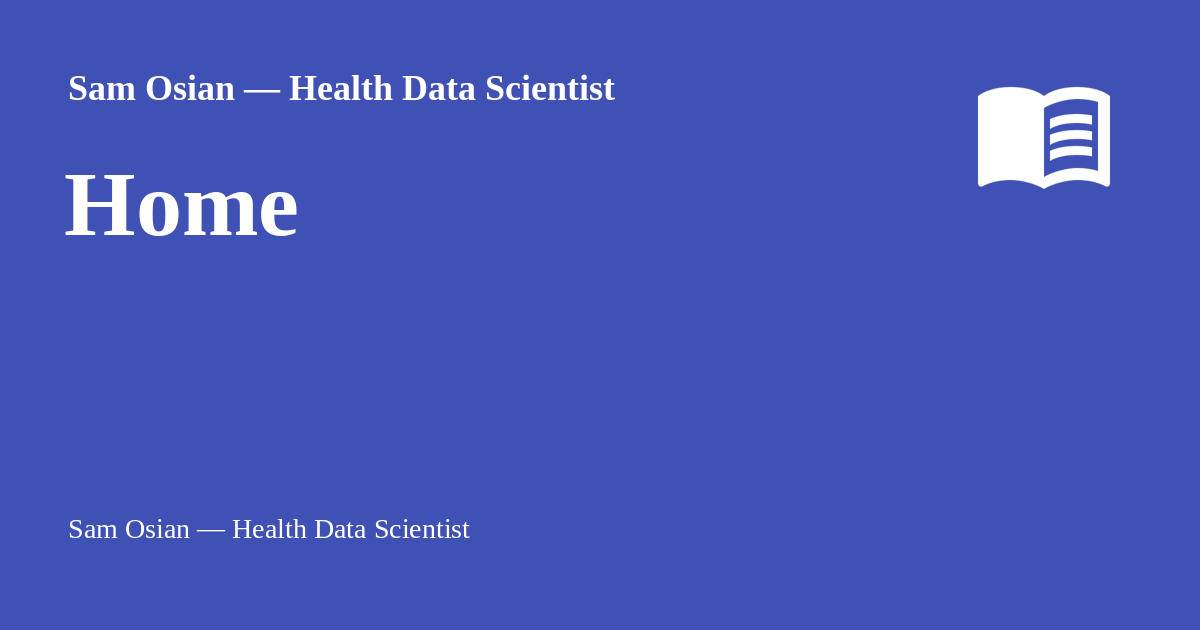
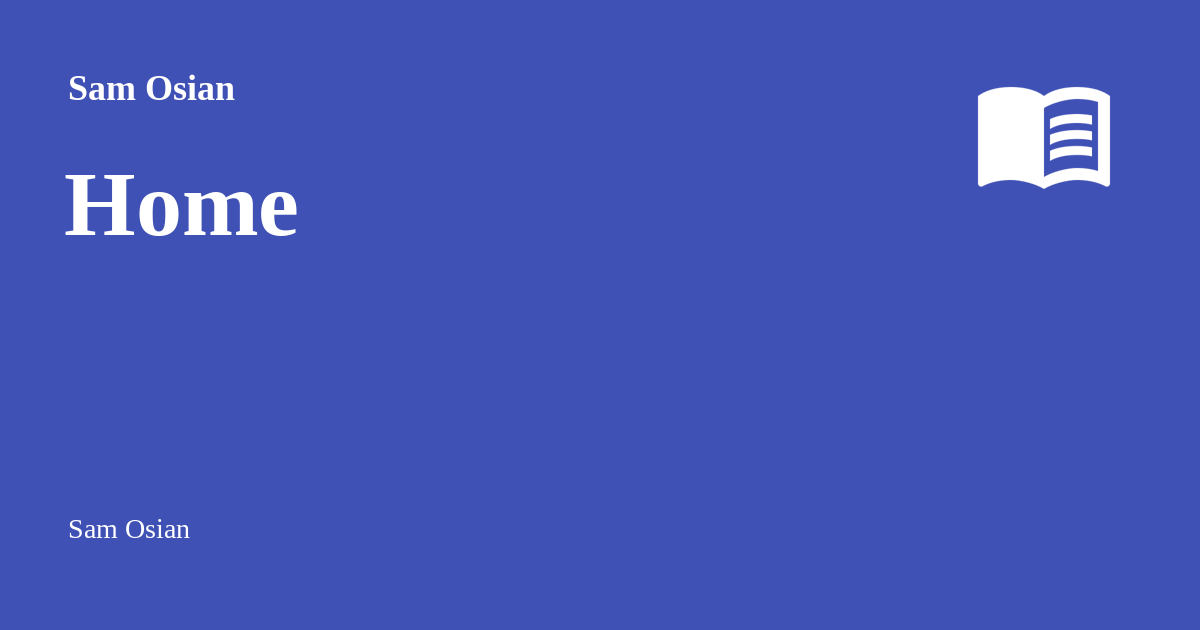
Deployed 6488b32 with MkDocs version: 1.6.1

Changed region(s): [[0.2158, 0.1206, 0.5242, 0.181], [0.185, 0.8143, 0.4008, 0.8746]]

diff --git a/rethinking-significance/index.html b/rethinking-significance/index.html
@@ -6,7 +6,7 @@
       <meta charset="utf-8">
       <meta name="viewport" content="width=device-width,initial-scale=1">
       
-        <meta name="description" content="Sam Osian — Health Data Scientist">
+        <meta name="description" content="Sam Osian">
       
       
         <meta name="author" content="Sam Osian">
@@ -25,7 +25,7 @@
     
     
       
-        <title>Rethinking 'significance' — Has the p-value overstayed its welcome? - Sam Osian — Health Data Scientist</title>
+        <title>Rethinking 'significance' — Has the p-value overstayed its welcome? - Sam Osian</title>
       
     
     
@@ -64,9 +64,9 @@
       
         <meta  property="og:type"  content="website" >
       
-        <meta  property="og:title"  content="Rethinking 'significance' — Has the p-value overstayed its welcome? - Sam Osian — Health Data Scientist" >
+        <meta  property="og:title"  content="Rethinking 'significance' — Has the p-value overstayed its welcome? - Sam Osian" >
       
-        <meta  property="og:description"  content="Sam Osian — Health Data Scientist" >
+        <meta  property="og:description"  content="Sam Osian" >
       
         <meta  property="og:image"  content="https://sam-osian.com/assets/images/social/posts/rethinking-significance.png" >
       
@@ -80,9 +80,9 @@
       
         <meta  name="twitter:card"  content="summary_large_image" >
       
-        <meta  name="twitter:title"  content="Rethinking 'significance' — Has the p-value overstayed its welcome? - Sam Osian — Health Data Scientist" >
+        <meta  name="twitter:title"  content="Rethinking 'significance' — Has the p-value overstayed its welcome? - Sam Osian" >
       
-        <meta  name="twitter:description"  content="Sam Osian — Health Data Scientist" >
+        <meta  name="twitter:description"  content="Sam Osian" >
       
         <meta  name="twitter:image"  content="https://sam-osian.com/assets/images/social/posts/rethinking-significance.png" >
       
@@ -132,7 +132,7 @@
 
 <header class="md-header md-header--shadow" data-md-component="header">
   <nav class="md-header__inner md-grid" aria-label="Header">
-    <a href=".." title="Sam Osian — Health Data Scientist" class="md-header__button md-logo" aria-label="Sam Osian — Health Data Scientist" data-md-component="logo">
+    <a href=".." title="Sam Osian" class="md-header__button md-logo" aria-label="Sam Osian" data-md-component="logo">
       
   
   <svg xmlns="http://www.w3.org/2000/svg" viewBox="0 0 24 24"><path d="M12 21.5c-1.35-.85-3.8-1.5-5.5-1.5-1.65 0-3.35.3-4.75 1.05-.1.05-.15.05-.25.05-.25 0-.5-.25-.5-.5V6c.6-.45 1.25-.75 2-1 1.11-.35 2.33-.5 3.5-.5 1.95 0 4.05.4 5.5 1.5 1.45-1.1 3.55-1.5 5.5-1.5 1.17 0 2.39.15 3.5.5.75.25 1.4.55 2 1v14.6c0 .25-.25.5-.5.5-.1 0-.15 0-.25-.05-1.4-.75-3.1-1.05-4.75-1.05-1.7 0-4.15.65-5.5 1.5M12 8v11.5c1.35-.85 3.8-1.5 5.5-1.5 1.2 0 2.4.15 3.5.5V7c-1.1-.35-2.3-.5-3.5-.5-1.7 0-4.15.65-5.5 1.5m1 3.5c1.11-.68 2.6-1 4.5-1 .91 0 1.76.09 2.5.28V9.23c-.87-.15-1.71-.23-2.5-.23q-2.655 0-4.5.84zm4.5.17c-1.71 0-3.21.26-4.5.79v1.69c1.11-.65 2.6-.99 4.5-.99 1.04 0 1.88.08 2.5.24v-1.5c-.87-.16-1.71-.23-2.5-.23m2.5 2.9c-.87-.16-1.71-.24-2.5-.24-1.83 0-3.33.27-4.5.8v1.69c1.11-.66 2.6-.99 4.5-.99 1.04 0 1.88.08 2.5.24z"/></svg>
@@ -146,7 +146,7 @@
       <div class="md-header__ellipsis">
         <div class="md-header__topic">
           <span class="md-ellipsis">
-            Sam Osian — Health Data Scientist
+            Sam Osian
           </span>
         </div>
         <div class="md-header__topic" data-md-component="header-topic">
@@ -260,13 +260,13 @@
 
 <nav class="md-nav md-nav--primary" aria-label="Navigation" data-md-level="0">
   <label class="md-nav__title" for="__drawer">
-    <a href=".." title="Sam Osian — Health Data Scientist" class="md-nav__button md-logo" aria-label="Sam Osian — Health Data Scientist" data-md-component="logo">
+    <a href=".." title="Sam Osian" class="md-nav__button md-logo" aria-label="Sam Osian" data-md-component="logo">
       
   
   <svg xmlns="http://www.w3.org/2000/svg" viewBox="0 0 24 24"><path d="M12 21.5c-1.35-.85-3.8-1.5-5.5-1.5-1.65 0-3.35.3-4.75 1.05-.1.05-.15.05-.25.05-.25 0-.5-.25-.5-.5V6c.6-.45 1.25-.75 2-1 1.11-.35 2.33-.5 3.5-.5 1.95 0 4.05.4 5.5 1.5 1.45-1.1 3.55-1.5 5.5-1.5 1.17 0 2.39.15 3.5.5.75.25 1.4.55 2 1v14.6c0 .25-.25.5-.5.5-.1 0-.15 0-.25-.05-1.4-.75-3.1-1.05-4.75-1.05-1.7 0-4.15.65-5.5 1.5M12 8v11.5c1.35-.85 3.8-1.5 5.5-1.5 1.2 0 2.4.15 3.5.5V7c-1.1-.35-2.3-.5-3.5-.5-1.7 0-4.15.65-5.5 1.5m1 3.5c1.11-.68 2.6-1 4.5-1 .91 0 1.76.09 2.5.28V9.23c-.87-.15-1.71-.23-2.5-.23q-2.655 0-4.5.84zm4.5.17c-1.71 0-3.21.26-4.5.79v1.69c1.11-.65 2.6-.99 4.5-.99 1.04 0 1.88.08 2.5.24v-1.5c-.87-.16-1.71-.23-2.5-.23m2.5 2.9c-.87-.16-1.71-.24-2.5-.24-1.83 0-3.33.27-4.5.8v1.69c1.11-.66 2.6-.99 4.5-.99 1.04 0 1.88.08 2.5.24z"/></svg>
 
     </a>
-    Sam Osian — Health Data Scientist
+    Sam Osian
   </label>
   
   <ul class="md-nav__list" data-md-scrollfix>

diff --git a/publications/index.html b/publications/index.html
@@ -6,7 +6,7 @@
       <meta charset="utf-8">
       <meta name="viewport" content="width=device-width,initial-scale=1">
       
-        <meta name="description" content="Sam Osian — Health Data Scientist">
+        <meta name="description" content="Sam Osian">
       
       
         <meta name="author" content="Sam Osian">
@@ -27,7 +27,7 @@
     
     
       
-        <title>Publications - Sam Osian — Health Data Scientist</title>
+        <title>Publications - Sam Osian</title>
       
     
     
@@ -64,9 +64,9 @@
       
         <meta  property="og:type"  content="website" >
       
-        <meta  property="og:title"  content="Publications - Sam Osian — Health Data Scientist" >
+        <meta  property="og:title"  content="Publications - Sam Osian" >
       
-        <meta  property="og:description"  content="Sam Osian — Health Data Scientist" >
+        <meta  property="og:description"  content="Sam Osian" >
       
         <meta  property="og:image"  content="https://sam-osian.com/assets/images/social/publications.png" >
       
@@ -80,9 +80,9 @@
       
         <meta  name="twitter:card"  content="summary_large_image" >
       
-        <meta  name="twitter:title"  content="Publications - Sam Osian — Health Data Scientist" >
+        <meta  name="twitter:title"  content="Publications - Sam Osian" >
       
-        <meta  name="twitter:description"  content="Sam Osian — Health Data Scientist" >
+        <meta  name="twitter:description"  content="Sam Osian" >
       
         <meta  name="twitter:image"  content="https://sam-osian.com/assets/images/social/publications.png" >
       
@@ -132,7 +132,7 @@
 
 <header class="md-header md-header--shadow" data-md-component="header">
   <nav class="md-header__inner md-grid" aria-label="Header">
-    <a href=".." title="Sam Osian — Health Data Scientist" class="md-header__button md-logo" aria-label="Sam Osian — Health Data Scientist" data-md-component="logo">
+    <a href=".." title="Sam Osian" class="md-header__button md-logo" aria-label="Sam Osian" data-md-component="logo">
       
   
   <svg xmlns="http://www.w3.org/2000/svg" viewBox="0 0 24 24"><path d="M12 21.5c-1.35-.85-3.8-1.5-5.5-1.5-1.65 0-3.35.3-4.75 1.05-.1.05-.15.05-.25.05-.25 0-.5-.25-.5-.5V6c.6-.45 1.25-.75 2-1 1.11-.35 2.33-.5 3.5-.5 1.95 0 4.05.4 5.5 1.5 1.45-1.1 3.55-1.5 5.5-1.5 1.17 0 2.39.15 3.5.5.75.25 1.4.55 2 1v14.6c0 .25-.25.5-.5.5-.1 0-.15 0-.25-.05-1.4-.75-3.1-1.05-4.75-1.05-1.7 0-4.15.65-5.5 1.5M12 8v11.5c1.35-.85 3.8-1.5 5.5-1.5 1.2 0 2.4.15 3.5.5V7c-1.1-.35-2.3-.5-3.5-.5-1.7 0-4.15.65-5.5 1.5m1 3.5c1.11-.68 2.6-1 4.5-1 .91 0 1.76.09 2.5.28V9.23c-.87-.15-1.71-.23-2.5-.23q-2.655 0-4.5.84zm4.5.17c-1.71 0-3.21.26-4.5.79v1.69c1.11-.65 2.6-.99 4.5-.99 1.04 0 1.88.08 2.5.24v-1.5c-.87-.16-1.71-.23-2.5-.23m2.5 2.9c-.87-.16-1.71-.24-2.5-.24-1.83 0-3.33.27-4.5.8v1.69c1.11-.66 2.6-.99 4.5-.99 1.04 0 1.88.08 2.5.24z"/></svg>
@@ -146,7 +146,7 @@
       <div class="md-header__ellipsis">
         <div class="md-header__topic">
           <span class="md-ellipsis">
-            Sam Osian — Health Data Scientist
+            Sam Osian
           </span>
         </div>
         <div class="md-header__topic" data-md-component="header-topic">
@@ -258,13 +258,13 @@
 
 <nav class="md-nav md-nav--primary" aria-label="Navigation" data-md-level="0">
   <label class="md-nav__title" for="__drawer">
-    <a href=".." title="Sam Osian — Health Data Scientist" class="md-nav__button md-logo" aria-label="Sam Osian — Health Data Scientist" data-md-component="logo">
+    <a href=".." title="Sam Osian" class="md-nav__button md-logo" aria-label="Sam Osian" data-md-component="logo">
       
   
   <svg xmlns="http://www.w3.org/2000/svg" viewBox="0 0 24 24"><path d="M12 21.5c-1.35-.85-3.8-1.5-5.5-1.5-1.65 0-3.35.3-4.75 1.05-.1.05-.15.05-.25.05-.25 0-.5-.25-.5-.5V6c.6-.45 1.25-.75 2-1 1.11-.35 2.33-.5 3.5-.5 1.95 0 4.05.4 5.5 1.5 1.45-1.1 3.55-1.5 5.5-1.5 1.17 0 2.39.15 3.5.5.75.25 1.4.55 2 1v14.6c0 .25-.25.5-.5.5-.1 0-.15 0-.25-.05-1.4-.75-3.1-1.05-4.75-1.05-1.7 0-4.15.65-5.5 1.5M12 8v11.5c1.35-.85 3.8-1.5 5.5-1.5 1.2 0 2.4.15 3.5.5V7c-1.1-.35-2.3-.5-3.5-.5-1.7 0-4.15.65-5.5 1.5m1 3.5c1.11-.68 2.6-1 4.5-1 .91 0 1.76.09 2.5.28V9.23c-.87-.15-1.71-.23-2.5-.23q-2.655 0-4.5.84zm4.5.17c-1.71 0-3.21.26-4.5.79v1.69c1.11-.65 2.6-.99 4.5-.99 1.04 0 1.88.08 2.5.24v-1.5c-.87-.16-1.71-.23-2.5-.23m2.5 2.9c-.87-.16-1.71-.24-2.5-.24-1.83 0-3.33.27-4.5.8v1.69c1.11-.66 2.6-.99 4.5-.99 1.04 0 1.88.08 2.5.24z"/></svg>
 
     </a>
-    Sam Osian — Health Data Scientist
+    Sam Osian
   </label>
   
   <ul class="md-nav__list" data-md-scrollfix>

diff --git a/about/index.html b/about/index.html
@@ -6,7 +6,7 @@
       <meta charset="utf-8">
       <meta name="viewport" content="width=device-width,initial-scale=1">
       
-        <meta name="description" content="Sam Osian — Health Data Scientist">
+        <meta name="description" content="Sam Osian">
       
       
         <meta name="author" content="Sam Osian">
@@ -29,7 +29,7 @@
     
     
       
-        <title>About - Sam Osian — Health Data Scientist</title>
+        <title>About - Sam Osian</title>
       
     
     
@@ -66,9 +66,9 @@
       
         <meta  property="og:type"  content="website" >
       
-        <meta  property="og:title"  content="About - Sam Osian — Health Data Scientist" >
+        <meta  property="og:title"  content="About - Sam Osian" >
       
-        <meta  property="og:description"  content="Sam Osian — Health Data Scientist" >
+        <meta  property="og:description"  content="Sam Osian" >
       
         <meta  property="og:image"  content="https://sam-osian.com/assets/images/social/about.png" >
       
@@ -82,9 +82,9 @@
       
         <meta  name="twitter:card"  content="summary_large_image" >
       
-        <meta  name="twitter:title"  content="About - Sam Osian — Health Data Scientist" >
+        <meta  name="twitter:title"  content="About - Sam Osian" >
       
-        <meta  name="twitter:description"  content="Sam Osian — Health Data Scientist" >
+        <meta  name="twitter:description"  content="Sam Osian" >
       
         <meta  name="twitter:image"  content="https://sam-osian.com/assets/images/social/about.png" >
       
@@ -134,7 +134,7 @@
 
 <header class="md-header md-header--shadow" data-md-component="header">
   <nav class="md-header__inner md-grid" aria-label="Header">
-    <a href=".." title="Sam Osian — Health Data Scientist" class="md-header__button md-logo" aria-label="Sam Osian — Health Data Scientist" data-md-component="logo">
+    <a href=".." title="Sam Osian" class="md-header__button md-logo" aria-label="Sam Osian" data-md-component="logo">
       
   
   <svg xmlns="http://www.w3.org/2000/svg" viewBox="0 0 24 24"><path d="M12 21.5c-1.35-.85-3.8-1.5-5.5-1.5-1.65 0-3.35.3-4.75 1.05-.1.05-.15.05-.25.05-.25 0-.5-.25-.5-.5V6c.6-.45 1.25-.75 2-1 1.11-.35 2.33-.5 3.5-.5 1.95 0 4.05.4 5.5 1.5 1.45-1.1 3.55-1.5 5.5-1.5 1.17 0 2.39.15 3.5.5.75.25 1.4.55 2 1v14.6c0 .25-.25.5-.5.5-.1 0-.15 0-.25-.05-1.4-.75-3.1-1.05-4.75-1.05-1.7 0-4.15.65-5.5 1.5M12 8v11.5c1.35-.85 3.8-1.5 5.5-1.5 1.2 0 2.4.15 3.5.5V7c-1.1-.35-2.3-.5-3.5-.5-1.7 0-4.15.65-5.5 1.5m1 3.5c1.11-.68 2.6-1 4.5-1 .91 0 1.76.09 2.5.28V9.23c-.87-.15-1.71-.23-2.5-.23q-2.655 0-4.5.84zm4.5.17c-1.71 0-3.21.26-4.5.79v1.69c1.11-.65 2.6-.99 4.5-.99 1.04 0 1.88.08 2.5.24v-1.5c-.87-.16-1.71-.23-2.5-.23m2.5 2.9c-.87-.16-1.71-.24-2.5-.24-1.83 0-3.33.27-4.5.8v1.69c1.11-.66 2.6-.99 4.5-.99 1.04 0 1.88.08 2.5.24z"/></svg>
@@ -148,7 +148,7 @@
       <div class="md-header__ellipsis">
         <div class="md-header__topic">
           <span class="md-ellipsis">
-            Sam Osian — Health Data Scientist
+            Sam Osian
           </span>
         </div>
         <div class="md-header__topic" data-md-component="header-topic">
@@ -260,13 +260,13 @@
 
 <nav class="md-nav md-nav--primary" aria-label="Navigation" data-md-level="0">
   <label class="md-nav__title" for="__drawer">
-    <a href=".." title="Sam Osian — Health Data Scientist" class="md-nav__button md-logo" aria-label="Sam Osian — Health Data Scientist" data-md-component="logo">
+    <a href=".." title="Sam Osian" class="md-nav__button md-logo" aria-label="Sam Osian" data-md-component="logo">
       
   
   <svg xmlns="http://www.w3.org/2000/svg" viewBox="0 0 24 24"><path d="M12 21.5c-1.35-.85-3.8-1.5-5.5-1.5-1.65 0-3.35.3-4.75 1.05-.1.05-.15.05-.25.05-.25 0-.5-.25-.5-.5V6c.6-.45 1.25-.75 2-1 1.11-.35 2.33-.5 3.5-.5 1.95 0 4.05.4 5.5 1.5 1.45-1.1 3.55-1.5 5.5-1.5 1.17 0 2.39.15 3.5.5.75.25 1.4.55 2 1v14.6c0 .25-.25.5-.5.5-.1 0-.15 0-.25-.05-1.4-.75-3.1-1.05-4.75-1.05-1.7 0-4.15.65-5.5 1.5M12 8v11.5c1.35-.85 3.8-1.5 5.5-1.5 1.2 0 2.4.15 3.5.5V7c-1.1-.35-2.3-.5-3.5-.5-1.7 0-4.15.65-5.5 1.5m1 3.5c1.11-.68 2.6-1 4.5-1 .91 0 1.76.09 2.5.28V9.23c-.87-.15-1.71-.23-2.5-.23q-2.655 0-4.5.84zm4.5.17c-1.71 0-3.21.26-4.5.79v1.69c1.11-.65 2.6-.99 4.5-.99 1.04 0 1.88.08 2.5.24v-1.5c-.87-.16-1.71-.23-2.5-.23m2.5 2.9c-.87-.16-1.71-.24-2.5-.24-1.83 0-3.33.27-4.5.8v1.69c1.11-.66 2.6-.99 4.5-.99 1.04 0 1.88.08 2.5.24z"/></svg>
 
     </a>
-    Sam Osian — Health Data Scientist
+    Sam Osian
   </label>
   
   <ul class="md-nav__list" data-md-scrollfix>

diff --git a/index.html b/index.html
@@ -6,7 +6,7 @@
       <meta charset="utf-8">
       <meta name="viewport" content="width=device-width,initial-scale=1">
       
-        <meta name="description" content="Sam Osian — Health Data Scientist">
+        <meta name="description" content="Sam Osian">
       
       
         <meta name="author" content="Sam Osian">
@@ -27,7 +27,7 @@
     
     
       
-        <title>Sam Osian — Health Data Scientist</title>
+        <title>Sam Osian</title>
       
     
     
@@ -64,9 +64,9 @@
       
         <meta  property="og:type"  content="website" >
       
-        <meta  property="og:title"  content="Sam Osian — Health Data Scientist" >
+        <meta  property="og:title"  content="Sam Osian" >
       
-        <meta  property="og:description"  content="Sam Osian — Health Data Scientist" >
+        <meta  property="og:description"  content="Sam Osian" >
       
         <meta  property="og:image"  content="https://sam-osian.com/assets/images/social/index.png" >
       
@@ -80,9 +80,9 @@
       
         <meta  name="twitter:card"  content="summary_large_image" >
       
-        <meta  name="twitter:title"  content="Sam Osian — Health Data Scientist" >
+        <meta  name="twitter:title"  content="Sam Osian" >
       
-        <meta  name="twitter:description"  content="Sam Osian — Health Data Scientist" >
+        <meta  name="twitter:description"  content="Sam Osian" >
       
         <meta  name="twitter:image"  content="https://sam-osian.com/assets/images/social/index.png" >
       
@@ -132,7 +132,7 @@
 
 <header class="md-header md-header--shadow" data-md-component="header">
   <nav class="md-header__inner md-grid" aria-label="Header">
-    <a href="." title="Sam Osian — Health Data Scientist" class="md-header__button md-logo" aria-label="Sam Osian — Health Data Scientist" data-md-component="logo">
+    <a href="." title="Sam Osian" class="md-header__button md-logo" aria-label="Sam Osian" data-md-component="logo">
       
   
   <svg xmlns="http://www.w3.org/2000/svg" viewBox="0 0 24 24"><path d="M12 21.5c-1.35-.85-3.8-1.5-5.5-1.5-1.65 0-3.35.3-4.75 1.05-.1.05-.15.05-.25.05-.25 0-.5-.25-.5-.5V6c.6-.45 1.25-.75 2-1 1.11-.35 2.33-.5 3.5-.5 1.95 0 4.05.4 5.5 1.5 1.45-1.1 3.55-1.5 5.5-1.5 1.17 0 2.39.15 3.5.5.75.25 1.4.55 2 1v14.6c0 .25-.25.5-.5.5-.1 0-.15 0-.25-.05-1.4-.75-3.1-1.05-4.75-1.05-1.7 0-4.15.65-5.5 1.5M12 8v11.5c1.35-.85 3.8-1.5 5.5-1.5 1.2 0 2.4.15 3.5.5V7c-1.1-.35-2.3-.5-3.5-.5-1.7 0-4.15.65-5.5 1.5m1 3.5c1.11-.68 2.6-1 4.5-1 .91 0 1.76.09 2.5.28V9.23c-.87-.15-1.71-.23-2.5-.23q-2.655 0-4.5.84zm4.5.17c-1.71 0-3.21.26-4.5.79v1.69c1.11-.65 2.6-.99 4.5-.99 1.04 0 1.88.08 2.5.24v-1.5c-.87-.16-1.71-.23-2.5-.23m2.5 2.9c-.87-.16-1.71-.24-2.5-.24-1.83 0-3.33.27-4.5.8v1.69c1.11-.66 2.6-.99 4.5-.99 1.04 0 1.88.08 2.5.24z"/></svg>
@@ -146,7 +146,7 @@
       <div class="md-header__ellipsis">
         <div class="md-header__topic">
           <span class="md-ellipsis">
-            Sam Osian — Health Data Scientist
+            Sam Osian
           </span>
         </div>
         <div class="md-header__topic" data-md-component="header-topic">
@@ -258,13 +258,13 @@
 
 <nav class="md-nav md-nav--primary" aria-label="Navigation" data-md-level="0">
   <label class="md-nav__title" for="__drawer">
-    <a href="." title="Sam Osian — Health Data Scientist" class="md-nav__button md-logo" aria-label="Sam Osian — Health Data Scientist" data-md-component="logo">
+    <a href="." title="Sam Osian" class="md-nav__button md-logo" aria-label="Sam Osian" data-md-component="logo">
       
   
   <svg xmlns="http://www.w3.org/2000/svg" viewBox="0 0 24 24"><path d="M12 21.5c-1.35-.85-3.8-1.5-5.5-1.5-1.65 0-3.35.3-4.75 1.05-.1.05-.15.05-.25.05-.25 0-.5-.25-.5-.5V6c.6-.45 1.25-.75 2-1 1.11-.35 2.33-.5 3.5-.5 1.95 0 4.05.4 5.5 1.5 1.45-1.1 3.55-1.5 5.5-1.5 1.17 0 2.39.15 3.5.5.75.25 1.4.55 2 1v14.6c0 .25-.25.5-.5.5-.1 0-.15 0-.25-.05-1.4-.75-3.1-1.05-4.75-1.05-1.7 0-4.15.65-5.5 1.5M12 8v11.5c1.35-.85 3.8-1.5 5.5-1.5 1.2 0 2.4.15 3.5.5V7c-1.1-.35-2.3-.5-3.5-.5-1.7 0-4.15.65-5.5 1.5m1 3.5c1.11-.68 2.6-1 4.5-1 .91 0 1.76.09 2.5.28V9.23c-.87-.15-1.71-.23-2.5-.23q-2.655 0-4.5.84zm4.5.17c-1.71 0-3.21.26-4.5.79v1.69c1.11-.65 2.6-.99 4.5-.99 1.04 0 1.88.08 2.5.24v-1.5c-.87-.16-1.71-.23-2.5-.23m2.5 2.9c-.87-.16-1.71-.24-2.5-.24-1.83 0-3.33.27-4.5.8v1.69c1.11-.66 2.6-.99 4.5-.99 1.04 0 1.88.08 2.5.24z"/></svg>
 
     </a>
-    Sam Osian — Health Data Scientist
+    Sam Osian
   </label>
   
   <ul class="md-nav__list" data-md-scrollfix>

diff --git a/404.html b/404.html
@@ -6,7 +6,7 @@
       <meta charset="utf-8">
       <meta name="viewport" content="width=device-width,initial-scale=1">
       
-        <meta name="description" content="Sam Osian — Health Data Scientist">
+        <meta name="description" content="Sam Osian">
       
       
         <meta name="author" content="Sam Osian">
@@ -23,7 +23,7 @@
     
     
       
-        <title>Sam Osian — Health Data Scientist</title>
+        <title>Sam Osian</title>
       
     
     
@@ -88,7 +88,7 @@
 
 <header class="md-header md-header--shadow" data-md-component="header">
   <nav class="md-header__inner md-grid" aria-label="Header">
-    <a href="/." title="Sam Osian — Health Data Scientist" class="md-header__button md-logo" aria-label="Sam Osian — Health Data Scientist" data-md-component="logo">
+    <a href="/." title="Sam Osian" class="md-header__button md-logo" aria-label="Sam Osian" data-md-component="logo">
       
   
   <svg xmlns="http://www.w3.org/2000/svg" viewBox="0 0 24 24"><path d="M12 21.5c-1.35-.85-3.8-1.5-5.5-1.5-1.65 0-3.35.3-4.75 1.05-.1.05-.15.05-.25.05-.25 0-.5-.25-.5-.5V6c.6-.45 1.25-.75 2-1 1.11-.35 2.33-.5 3.5-.5 1.95 0 4.05.4 5.5 1.5 1.45-1.1 3.55-1.5 5.5-1.5 1.17 0 2.39.15 3.5.5.75.25 1.4.55 2 1v14.6c0 .25-.25.5-.5.5-.1 0-.15 0-.25-.05-1.4-.75-3.1-1.05-4.75-1.05-1.7 0-4.15.65-5.5 1.5M12 8v11.5c1.35-.85 3.8-1.5 5.5-1.5 1.2 0 2.4.15 3.5.5V7c-1.1-.35-2.3-.5-3.5-.5-1.7 0-4.15.65-5.5 1.5m1 3.5c1.11-.68 2.6-1 4.5-1 .91 0 1.76.09 2.5.28V9.23c-.87-.15-1.71-.23-2.5-.23q-2.655 0-4.5.84zm4.5.17c-1.71 0-3.21.26-4.5.79v1.69c1.11-.65 2.6-.99 4.5-.99 1.04 0 1.88.08 2.5.24v-1.5c-.87-.16-1.71-.23-2.5-.23m2.5 2.9c-.87-.16-1.71-.24-2.5-.24-1.83 0-3.33.27-4.5.8v1.69c1.11-.66 2.6-.99 4.5-.99 1.04 0 1.88.08 2.5.24z"/></svg>
@@ -102,7 +102,7 @@
       <div class="md-header__ellipsis">
         <div class="md-header__topic">
           <span class="md-ellipsis">
-            Sam Osian — Health Data Scientist
+            Sam Osian
           </span>
         </div>
         <div class="md-header__topic" data-md-component="header-topic">
@@ -214,13 +214,13 @@
 
 <nav class="md-nav md-nav--primary" aria-label="Navigation" data-md-level="0">
   <label class="md-nav__title" for="__drawer">
-    <a href="/." title="Sam Osian — Health Data Scientist" class="md-nav__button md-logo" aria-label="Sam Osian — Health Data Scientist" data-md-component="logo">
+    <a href="/." title="Sam Osian" class="md-nav__button md-logo" aria-label="Sam Osian" data-md-component="logo">
       
   
   <svg xmlns="http://www.w3.org/2000/svg" viewBox="0 0 24 24"><path d="M12 21.5c-1.35-.85-3.8-1.5-5.5-1.5-1.65 0-3.35.3-4.75 1.05-.1.05-.15.05-.25.05-.25 0-.5-.25-.5-.5V6c.6-.45 1.25-.75 2-1 1.11-.35 2.33-.5 3.5-.5 1.95 0 4.05.4 5.5 1.5 1.45-1.1 3.55-1.5 5.5-1.5 1.17 0 2.39.15 3.5.5.75.25 1.4.55 2 1v14.6c0 .25-.25.5-.5.5-.1 0-.15 0-.25-.05-1.4-.75-3.1-1.05-4.75-1.05-1.7 0-4.15.65-5.5 1.5M12 8v11.5c1.35-.85 3.8-1.5 5.5-1.5 1.2 0 2.4.15 3.5.5V7c-1.1-.35-2.3-.5-3.5-.5-1.7 0-4.15.65-5.5 1.5m1 3.5c1.11-.68 2.6-1 4.5-1 .91 0 1.76.09 2.5.28V9.23c-.87-.15-1.71-.23-2.5-.23q-2.655 0-4.5.84zm4.5.17c-1.71 0-3.21.26-4.5.79v1.69c1.11-.65 2.6-.99 4.5-.99 1.04 0 1.88.08 2.5.24v-1.5c-.87-.16-1.71-.23-2.5-.23m2.5 2.9c-.87-.16-1.71-.24-2.5-.24-1.83 0-3.33.27-4.5.8v1.69c1.11-.66 2.6-.99 4.5-.99 1.04 0 1.88.08 2.5.24z"/></svg>
 
     </a>
-    Sam Osian — Health Data Scientist
+    Sam Osian
   </label>
   
   <ul class="md-nav__list" data-md-scrollfix>
